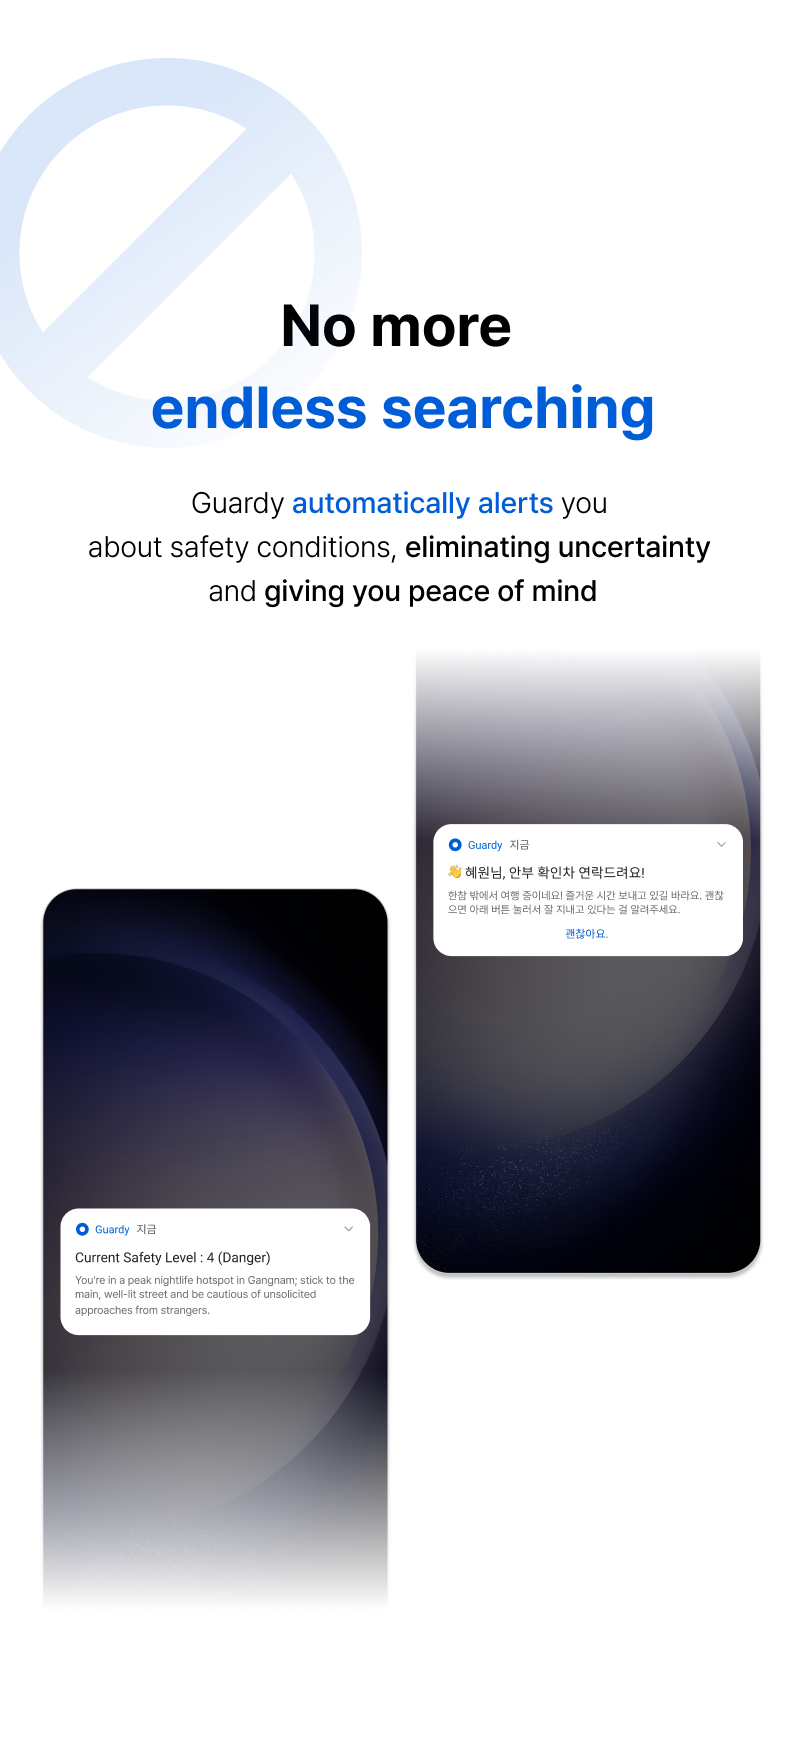
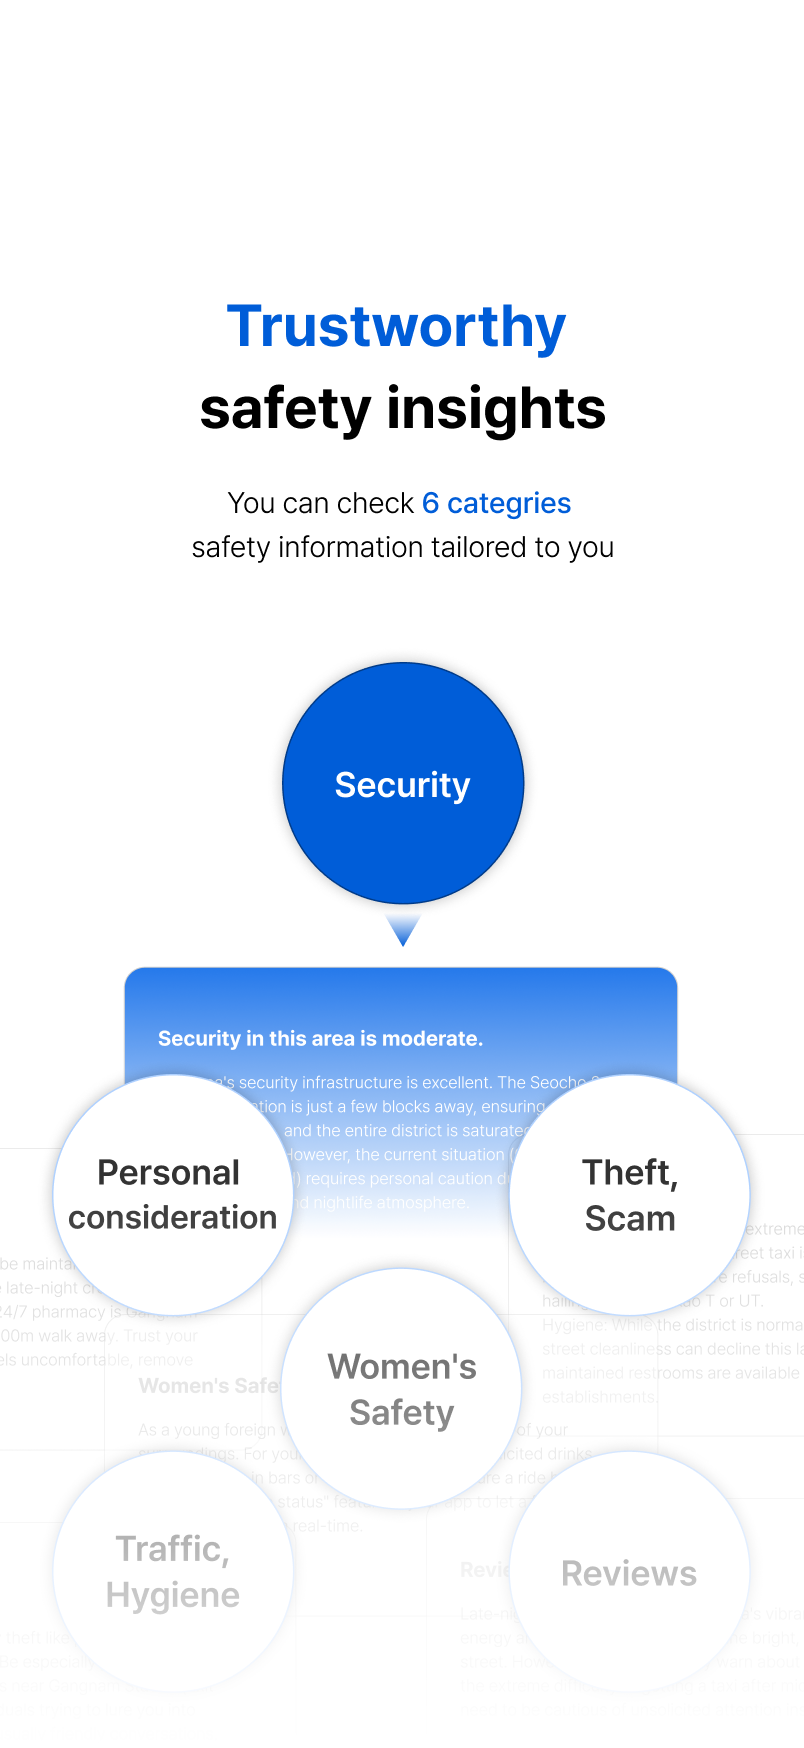
new pic & download but

diff --git a/styles.css b/styles.css
@@ -2,6 +2,10 @@
   --primary: #005DDB;
 }
 
+html {
+  scroll-behavior: smooth;
+}
+
 * {
   box-sizing: border-box;
   margin: 0;
@@ -52,13 +56,38 @@ body {
 ============================== */
 .img-section {
   width: 100%;
+  height: 100vh;
   line-height: 0; /* 이미지 아래 공백 제거 */
+  overflow: hidden;
 }
 
 .img-section img {
   width: 100%;
-  height: auto;
+  height: 100%;
   display: block;
+  object-fit: cover;
+}
+
+@media (max-width: 1023px) {
+  .img-section {
+    height: 100vh;
+    background: #fff; /* 여백 배경색 */
+  }
+
+  .img-section img {
+    width: 100%;
+    height: 100%;
+    object-fit: contain; /* 안 잘리고 화면에 꽉 */
+  }
+}
+
+.footer-section {
+  height: auto; /* 자동 높이 */
+}
+
+.footer-section img {
+  object-fit: unset; /* cover 덮어쓰기 */
+  height: auto;
 }
 
 /* ==============================
@@ -68,6 +97,7 @@ header {
   display: none; /* 모바일 기본: 숨김 */
 }
 
+
 @media (min-width: 1024px) {
   header {
     display: block;
@@ -76,16 +106,16 @@ header {
     left: 0;
     width: 100%;
     z-index: 1000;
-    background-color: transparent;
-    backdrop-filter: blur(2px);
-    transition: background-color 0.3s ease;
+    background: linear-gradient(to bottom, rgba(255,255,255,0.7) 0%, rgba(255,255,255,0) 65%);
+    transition: background 0.3s ease;
   }
 }
 
 .hero-header .container.nav {
   display: flex;
   align-items: center;
-  padding: 20px;
+  padding: 25px;
+  padding-left: 100px;
   gap: 20px;
 }
 
@@ -98,9 +128,6 @@ header {
   transition: color 0.3s ease;
 }
 
-.hero-header.scrolled {
-  background-color: rgba(255, 255, 255, 0.95);
-}
 
 .hero-header.scrolled nav a {
   color: var(--primary);
@@ -213,8 +240,8 @@ header {
  
 .carousel-card {
   flex-shrink: 0;
-  width: 900px;
-  height: 500px;
+  width: 44vw;
+  height: 24vw;
 }
  
 .carousel-card img {
@@ -236,7 +263,109 @@ header {
 }
 .carousel-overlay-section .carousel-wrapper {
   position: absolute;
-  bottom: 5%;  /* 이미지 안 파란 네모 위치에 맞게 조절 */
+  bottom: 20%;
   left: 0;
   width: 100%;
 }
+
+/* =====================
+    다운로드 버튼
+=======================*/
+
+.fixed-download {
+  display: flex; /* 모바일도 표시 */
+  position: fixed;
+  bottom: 30vw;
+  left: 50%;
+  transform: translateX(-50%);
+  z-index: 1000;
+}
+
+
+@media (min-width: 1024px) {
+  .fixed-download {
+    display: flex;
+    position: fixed;
+    bottom: 3vw;
+    left: 50%;
+    transform: translateX(-50%);
+    z-index: 1000;
+  }
+}
+
+.download-btn {
+  display: inline-flex;
+  align-items: center;
+  justify-content: center;
+  padding: 14px 30px;
+  background: #fff;
+  color: #005DDB;
+  width: 70vw;
+  height: 11vw;
+  font-weight: 700;
+  font-size: 21px;
+  border-radius: 50px;
+  border: none;
+  cursor: pointer;
+  text-decoration: none;
+  box-shadow: 0 4px 20px rgba(0, 93, 219, 0.25);
+  transition: transform 0.2s ease, box-shadow 0.2s ease;
+  white-space: nowrap;
+}
+ 
+@media (min-width: 1024px) {
+  .download-btn {
+    width: 18vw;
+    height: 4vw;
+    font-size: 24px;
+  }
+}
+
+.download-btn:hover {
+  transform: translateY(-2px);
+  box-shadow: 0 8px 28px rgba(0, 93, 219, 0.35);
+}
+
+/* ==============================
+   스토어 선택 팝업
+============================== */
+.store-popup {
+  display: none;
+  position: absolute;
+  bottom: calc(100% + 12px);
+  left: 50%;
+  transform: translateX(-50%);
+  background: #fff;
+  border-radius: 16px;
+  box-shadow: 0 8px 24px rgba(0, 0, 0, 0.15);
+  padding: 8px;
+  flex-direction: column;
+  gap: 4px;
+  white-space: nowrap;
+}
+ 
+.store-popup.show {
+  display: flex;
+}
+ 
+.store-popup a {
+  display: flex;
+  align-items: center;
+  gap: 10px;
+  padding: 12px 24px;
+  color: #005DDB;
+  font-weight: 600;
+  font-size: 15px;
+  text-decoration: none;
+  border-radius: 10px;
+  transition: background 0.2s ease;
+}
+ 
+.store-popup a:hover {
+  background: #f0f4ff;
+}
+ 
+.store-popup i {
+  font-size: 18px;
+}
+ 

diff --git a/index.html b/index.html
@@ -37,7 +37,7 @@
         <div class="container nav">
           <img src="./images/logo.png" alt="Guardy" class="brand-logo" loading="lazy"/>
           <nav>
-            <a href="#about">ABOUT US</a>
+            <a href="#real-stories">REAL STORIES</a>
           </nav>
         </div>
       </header>
@@ -54,10 +54,11 @@
     <section class="img-section"><img src="./images/pc_2.png" .../></section>
     <section class="img-section"><img src="./images/pc_3.png" .../></section>
     <section class="img-section"><img src="./images/pc_4.png" .../></section>
+    <section class="img-section"><img src="./images/pc_5.png" .../></section>
   </div>
 
-  <section class="img-section carousel-overlay-section">
-    <img src="./images/pc_5.png" alt="PC Section 5" loading="lazy"/>
+  <section class="img-section carousel-overlay-section" id="real-stories">
+    <img src="./images/pc_6.png" alt="PC Section 5" loading="lazy"/>
     <div class="carousel-wrapper">
       <div class="carousel-track">
         <div class="carousel-card"><img src="./images/review_1.png" .../></div>
@@ -73,8 +74,7 @@
 
   <!-- PC 뒷부분 -->
   <div class="pc-version">
-    <section class="img-section"><img src="./images/pc_6.png" .../></section>
-    <section class="img-section"><img src="./images/pc_footer.png" .../></section>
+    <section class="img-section footer-section"><img src="./images/pc_footer.png" .../></section>
   </div>
 
  
@@ -99,6 +99,9 @@
         <img src="./images/mobile_4.png" alt="Mobile Section 4" loading="lazy"/>
       </section>
       <section class="img-section">
+        <img src="./images/mobile_5.png" alt="Mobile Section 4" loading="lazy"/>
+      </section>
+      <section class="img-section">
         <img src="./images/mobile_6.png" alt="Mobile Section 4" loading="lazy"/>
       </section>
       <section class="img-section">
@@ -111,6 +114,18 @@
     </div>
 
   </main>
+
+  <div class="fixed-download">
+    <button class="download-btn" onclick="toggleStorePopup()">Download Now</button>
+    <div class="store-popup" id="storePopup">
+      <a href="https://apps.apple.com/kr/app/guardy-travel-safety-guide/id6755372577" target="_blank">
+        <i class="fab fa-apple"></i> App Store
+      </a>
+      <a href="https://play.google.com/store/apps/details?id=com.guardy.template&pcampaignid=web_share" target="_blank">
+        <i class="fab fa-google-play"></i> Google Play
+      </a>
+    </div>
+  </div>
 
 
 
@@ -150,6 +165,7 @@
   </div>
 </footer> -->
 
+
 </body>
 
 <script src="./fullpage-scroll.js"></script>
@@ -173,6 +189,27 @@
     }, { threshold: 0.5 });
  
     io.observe(firstSection);
+  });
+
+  function toggleStorePopup() {
+    const ua = navigator.userAgent;
+    const isIOS = /iPhone|iPad|iPod/i.test(ua);
+    const isAndroid = /Android/i.test(ua);
+ 
+    if (isIOS) {
+      window.open("https://apps.apple.com/kr/app/guardy-travel-safety-guide/id6755372577", "_blank");
+    } else if (isAndroid) {
+      window.open("https://play.google.com/store/apps/details?id=com.guardy.template&pcampaignid=web_share", "_blank");
+    } else {
+      document.getElementById("storePopup").classList.toggle("show");
+    }
+  }
+ 
+  // 팝업 바깥 누르면 닫기
+  document.addEventListener("click", (e) => {
+    if (!e.target.closest(".fixed-download")) {
+      document.getElementById("storePopup").classList.remove("show");
+    }
   });
 </script>
  

diff --git a/fullpage-scroll.js b/fullpage-scroll.js
@@ -10,3 +10,20 @@ window.addEventListener("resize", setVh);
 
 /* 2) 끝. 스크롤은 브라우저 + CSS 스냅이 처리.
       (휠/터치 하이재킹, spacer 삽입, 수동 인덱스 스크롤, 폼 핸들러 전부 제거) */
+
+function toggleStorePopup() {
+  const ua = navigator.userAgent;
+  const isIOS = /iPhone|iPad|iPod/i.test(ua);
+  const isAndroid = /Android/i.test(ua);
+
+  if (isIOS) {
+    // 아이폰이면 바로 앱스토어로
+    window.open("https://apps.apple.com/app/guardy", "_blank");
+  } else if (isAndroid) {
+    // 안드로이드면 바로 플레이스토어로
+    window.open("https://play.google.com/store/apps/details?id=com.guardy.template", "_blank");
+  } else {
+    // PC면 팝업 띄우기
+    document.getElementById("storePopup").classList.toggle("show");
+  }
+}
